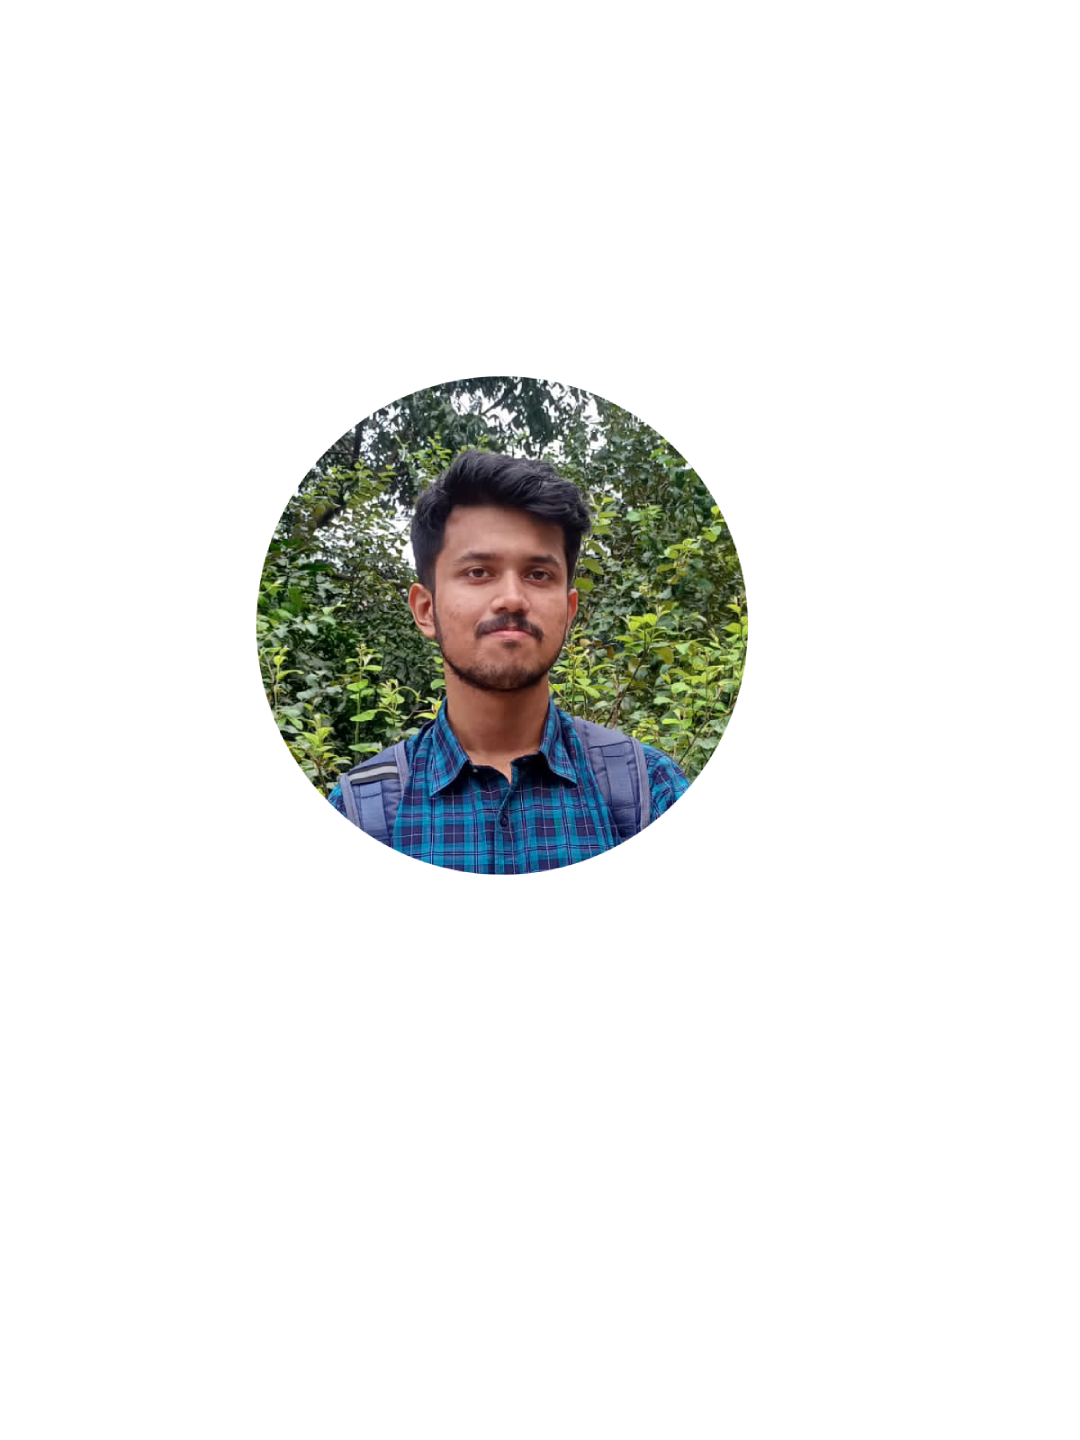
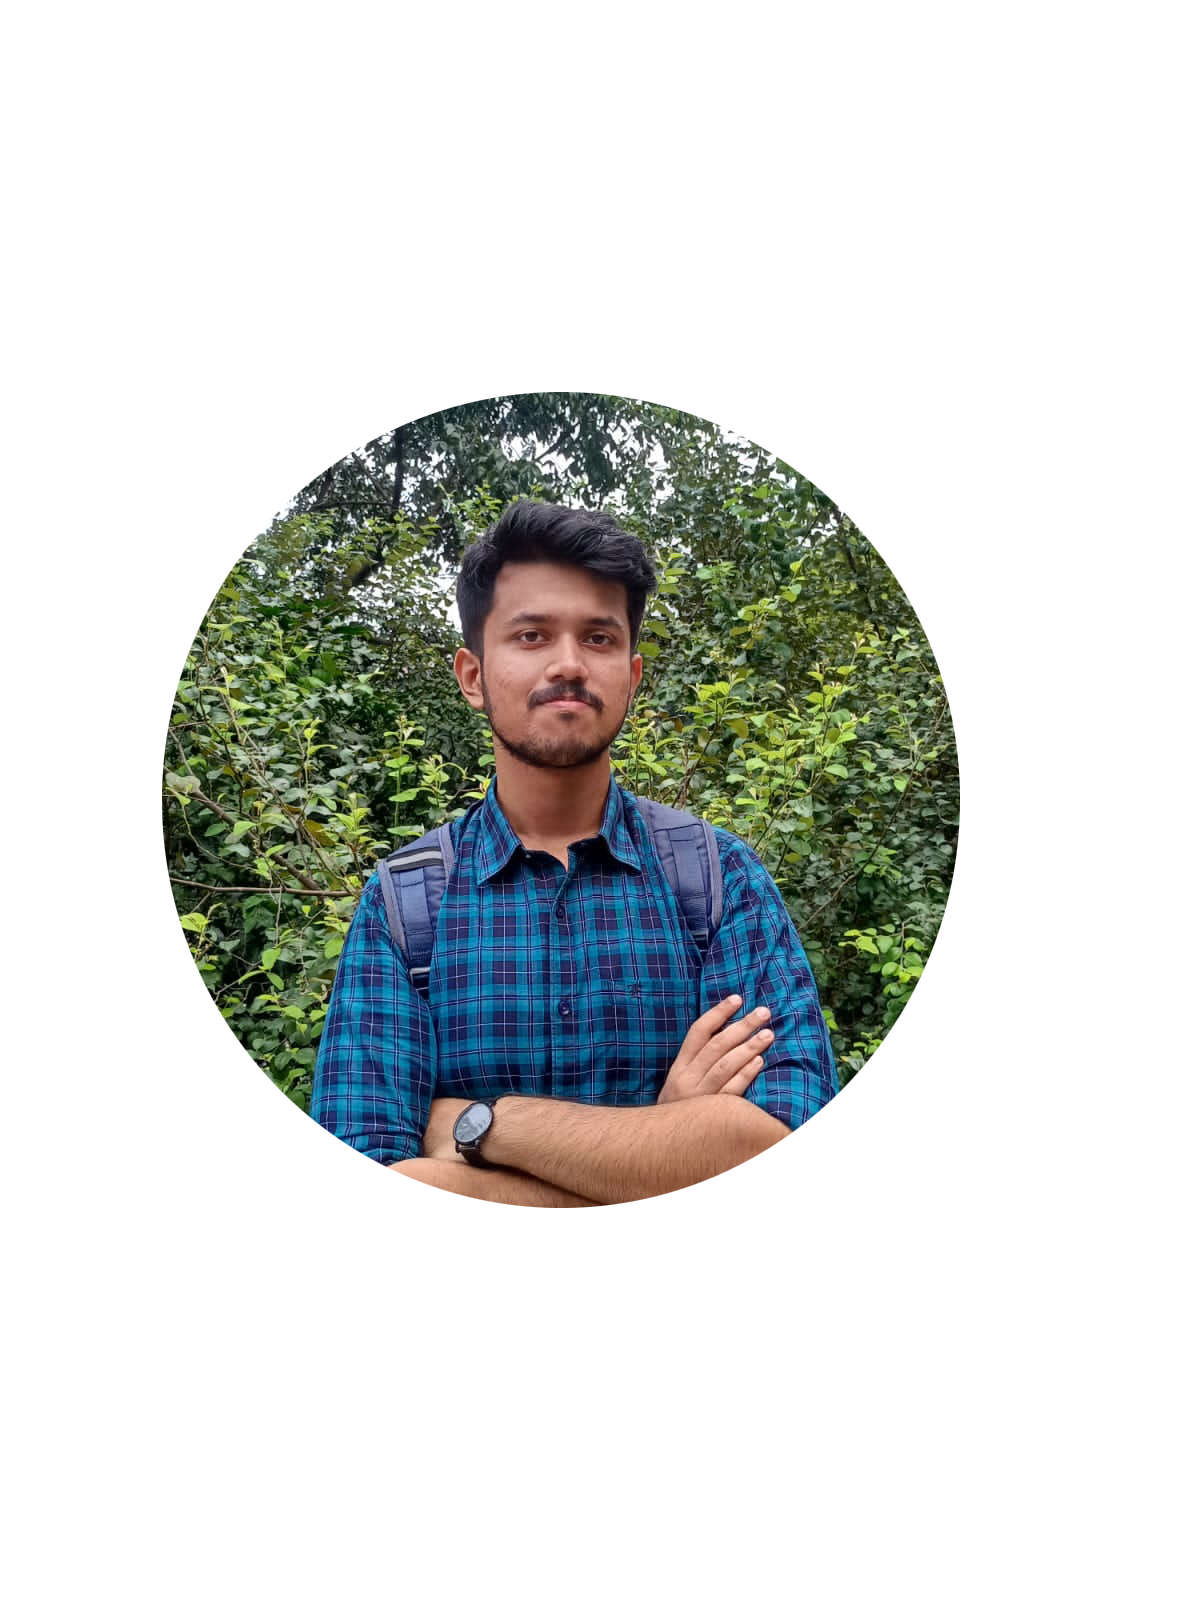
fixed css

Changed region(s): [[0.1222, 0.2188, 0.825, 0.7812]]

diff --git a/src/app/components/AboutSection.jsx b/src/app/components/AboutSection.jsx
@@ -6,32 +6,32 @@ import { TABS, TAB_DATA } from '../constant'
 
 
 const AboutSection = () => {
- const [tab, setTab] = useState('skills')
- const [isPending, startTransition] = useTransition()
+  const [tab, setTab] = useState('skills')
+  const [isPending, startTransition] = useTransition()
 
- const handleTabChange = (id) => {
-  startTransition(() => {
-   setTab(id)
-  })
- }
+  const handleTabChange = (id) => {
+    startTransition(() => {
+      setTab(id)
+    })
+  }
 
- return (
-  <section className="text-white">
-   <div className="md:grid md:grid-cols-2 gap-8 items-center py-8 px-4 xl:gap-16 sm:py-16 xl:px-16">
-    <Image src="/images/folio-about.jpg" width={600} height={500} alt='about image' />
-    <div className='mt-4 md:mt-0 text-left flex flex-col h-full'>
-     <h2 className='text-4xl font-bold text-white mb-4'>About Me</h2>
-     <p className='text-base lg:text-lg'>Lorem ipsum dolor sit amet consectetur adipisicing elit. Non optio ipsa magni recusandae ut in repellendus cumque laudantium! Accusamus rem eaque culpa nihil voluptatem ipsam facilis voluptate delectus in itaque vitae, libero et optio id dicta aliquam temporibus est nam!</p>
-     <div className="flex flex-row justify-start mt-8">
-      {TABS.map((tabName, index) =>
-       <TabButton key={index} selectTab={() => handleTabChange(tabName)} active={tab === tabName} >
-        {tabName}
-       </TabButton>)}
-     </div>
-     <div className='mt-8'>{TAB_DATA.find(t => t.id === tab).content}</div>
-    </div>
-   </div>
-  </section>
- )
+  return (
+    <section className="text-white ml">
+      <div className="md:grid md:grid-cols-2 gap-8 items-center py-8 px-4 xl:gap-16 sm:py-16 xl:px-16">
+        <Image src="/images/folio-about.jpg" width={600} height={500} alt='about image' />
+        <div className='mt-4 md:mt-0 text-left flex flex-col h-full'>
+          <h2 className='text-4xl font-bold text-white mb-4'>About Me</h2>
+          <p className='text-base lg:text-lg'>Lorem ipsum dolor sit amet consectetur adipisicing elit. Non optio ipsa magni recusandae ut in repellendus cumque laudantium! Accusamus rem eaque culpa nihil voluptatem ipsam facilis voluptate delectus in itaque vitae, libero et optio id dicta aliquam temporibus est nam!</p>
+          <div className="flex flex-row justify-start mt-8">
+            {TABS.map((tabName, index) =>
+              <TabButton key={index} selectTab={() => handleTabChange(tabName)} active={tab === tabName} >
+                {tabName}
+              </TabButton>)}
+          </div>
+          <div className='mt-8'>{TAB_DATA.find(t => t.id === tab).content}</div>
+        </div>
+      </div>
+    </section>
+  )
 }
 export default AboutSection

diff --git a/src/app/components/Navbar.jsx b/src/app/components/Navbar.jsx
@@ -25,7 +25,14 @@ const Navbar = () => {
  return (
   <nav className='fixed top-0 left-0 right-0 z-10 bg-black bg-opacity-100'>
    <div className='flex container flex-wrap items-center justify-between mx-auto px-4 py-2 lg:py-4'>
-    <Link href={"/"} className='text-2xl md:text-5xl text-white font-semibold'>Logo</Link>
+    <Link href={"/"} className='text-2xl md:text-5xl text-white font-semibold'>
+     <div className='flex justify-center items-center gap-2'>
+      <svg className='w-14 sm:w-18' xmlns="http://www.w3.org/2000/svg" fill="none" viewBox="0 0 24 24" stroke-width="1.5" stroke="currentColor" class="w-6 h-6">
+       <path stroke-linecap="round" stroke-linejoin="round" d="M6.75 7.5l3 2.25-3 2.25m4.5 0h3m-9 8.25h13.5A2.25 2.25 0 0021 18V6a2.25 2.25 0 00-2.25-2.25H5.25A2.25 2.25 0 003 6v12a2.25 2.25 0 002.25 2.25z" />
+      </svg>
+      <p className='text-base sm:text-xl'>Novodip Mondal</p>
+     </div>
+    </Link>
     <div className='block mobile-menu md:hidden'>
      {
       !navbarOpen ? (

diff --git a/src/app/components/HeroSection.jsx b/src/app/components/HeroSection.jsx
@@ -38,8 +38,8 @@ const HeroSection = () => {
      </div>
     </div>
     <div className="col-span-5 place-self-center mt-4 lg:mt-0">
-     <div className='rounded-full bg-[#181818] relative w-[300px] h-[300px] lg:w-[400px] lg:h-[400px]'>
-      <Image className='absolute transform -translate-x-1/2 -translate-y-1/2 top-1/2 left-1/2' src="/images/folio-hero.png" alt='hero image' width={300} height={300} />
+     <div className='rounded-full bg-black relative w-[300px] h-[300px] lg:w-[300px] lg:h-[300px]'>
+      <Image className='absolute transform -translate-x-1/2 -translate-y-1/2 top-1/2 left-1/2 left-[10rem] sm:scale-150 sm:left-[17.1rem]' src="/images/folio-hero.png" alt='hero image' width={800} height={800} />
      </div>
     </div>
    </div>

diff --git a/pages/api/send-email.js b/pages/api/send-email.js
@@ -4,7 +4,7 @@ import { sendEmail } from '../../lib/email'
 
 export default async function handler(req, res) {
   await sendEmail({
-    to: 'novorony52@gmail.com',
+    to: 'neptune.navo@gmail.com',
     subject: 'Welcome to NextAPI',
     html: render(WelcomeTemplate()),
   })
